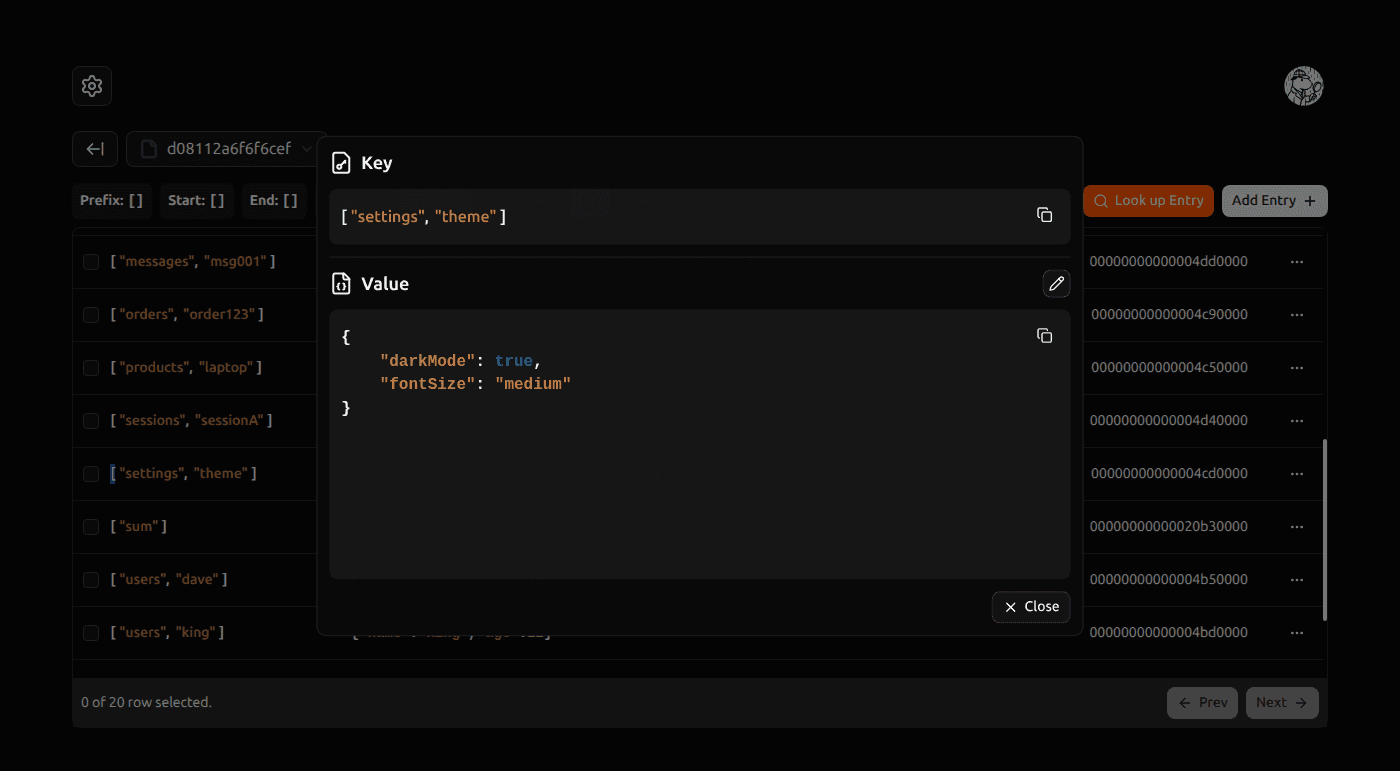
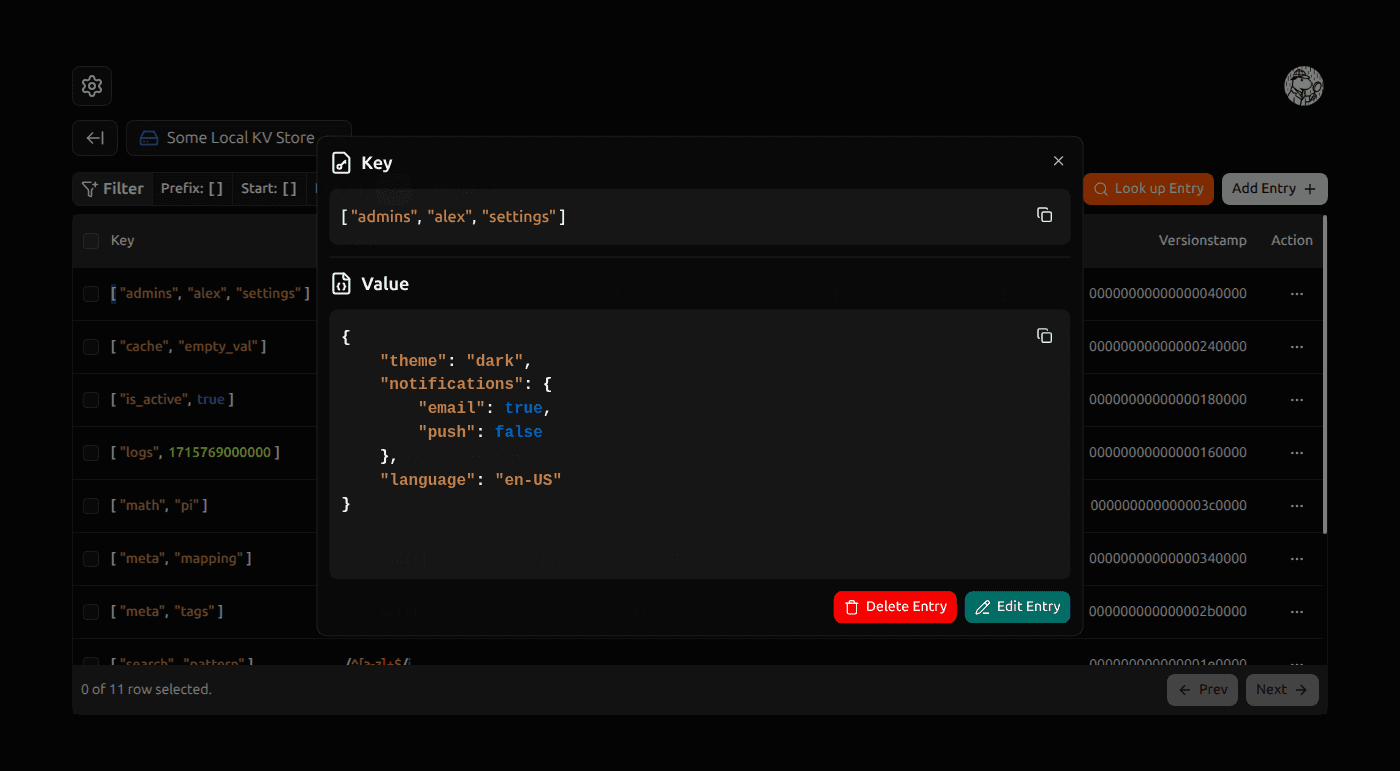
chore: refine automatic screenshots capturing script

diff --git a/scripts/takeScreenshots.ts b/scripts/takeScreenshots.ts
@@ -3,10 +3,11 @@ import type { Page } from 'playwright';
 import { globSync } from 'glob';
 import { platform } from 'node:process';
 import sharp from "sharp";
-import { readdirSync, rmSync } from 'node:fs';
+import { readdirSync, rmSync, writeFileSync } from 'node:fs';
+import { randomTestingKvEntries } from '../tests/testingKvEntries.ts';
+import path from 'node:path';
 
 process.env.PLAYWRIGHT_TEST = 'true';
-process.env.NODE_ENV = 'development';
 
 let executablePattern = 'dist/*/denokv-gui-client{,.*}';
 if (platform === 'darwin') {
@@ -40,12 +41,56 @@ try {
     // Wait for the page to load
     await page.waitForLoadState('load');
 
+    await page.evaluate(async (path) => {
+        const kvStoresService = globalThis[btoa('kvStoresService') as keyof typeof globalThis]
+        await kvStoresService.create({
+            name: "Some Local KV Store",
+            url: path,
+            type: "local",
+            accessToken: null,
+            authToken: null,
+        })
+
+        await kvStoresService.create({
+            name: "Some Production KV Store",
+            url: "https://some-remote-database.com/kv",
+            type: "remote",
+            accessToken: "some-access-token",
+            authToken: null,
+        })
+
+        await kvStoresService.create({
+            name: "Some KV Store Bridge Server",
+            url: "https://localhost:8704/kv/bridge-server",
+            type: "bridge",
+            accessToken: null,
+            authToken: "some-auth-token",
+        })
+    }, import.meta.dirname);
+
     await switchMode(page, 'dark')
     await takeScreenshots(page, 'dark')
     await switchMode(page, 'light')
     await takeScreenshots(page, 'light')
 } finally {
     await electronApp.close();
+
+    writeFileSync(path.resolve(import.meta.dirname, '../tests/database.test.sqlite'), "")
+
+    const testingKvStorePath = path.resolve(import.meta.dirname, 'kv.sqlite3')
+    rmSync(testingKvStorePath, { force: true })
+    rmSync(`${testingKvStorePath}-shm`, { force: true })
+    rmSync(`${testingKvStorePath}-wal`, { force: true })
+
+    for (const file of readdirSync("./screenshots")) {
+        if (file.endsWith(".temp.png")) {
+            await sharp("./screenshots/" + file)
+                .png({ quality: 70 })
+                .toFile("./screenshots/" + file.replace(".temp", ""));
+
+            rmSync("./screenshots/" + file)
+        }
+    }
 }
 
 type Mode = "dark" | "light";
@@ -56,6 +101,7 @@ async function takeScreenshots(page: Page, mode: Mode) {
         takeScreenshotOfKvStoreForm,
         takeScreenshotOfKvEntriesTable,
         takeScreenshotOfDisplayKvEntryDialog,
+        takeScreenshotOfEditKvEntryDialog,
         takeScreenshotOfAddKvEntryForm,
         takeScreenshotOfLookupEntryDialog,
         takeScreenshotOfBrowsingParamsDialog,
@@ -76,8 +122,7 @@ async function switchMode(page: Page, mode: Mode) {
 
     await page.screenshot({ path: `./screenshots/SettingsPage_${mode}.temp.png`, fullPage: true });
 
-    const backButton = page.locator("button svg.lucide-arrow-left");
-    await backButton.click()
+    await page.reload();
 }
 
 async function takeScreenshotOfKvStoresGrid(page: Page, mode: Mode) {
@@ -93,26 +138,45 @@ async function takeScreenshotOfKvStoreForm(page: Page, mode: Mode) {
 }
 
 async function takeScreenshotOfKvEntriesTable(page: Page, mode: Mode) {
-    const kvStoreCard = page.locator('#kv-stores-grid > div', { has: page.locator("svg.lucide-file") }).first();
-    await kvStoreCard.dblclick({ position: { x: 5, y: 5 } });
+    await page.locator(
+        '#kv-stores-grid > div',
+        { hasText: "Some Local KV Store" }
+    ).dblclick({ position: { x: 5, y: 5 } });
+
+    await page.evaluate(async (entries) => {
+        const kvClient = globalThis[btoa('kvClient') as keyof typeof globalThis]
+
+        if (!(await kvClient.get(entries[0].key))?.result) {
+            for (const entry of entries) {
+                await kvClient.set(entry.key, entry.value)
+            }
+        }
+    }, randomTestingKvEntries);
+
+    await page.locator("button", { hasText: "Reload" }).click();
+    await page.waitForTimeout(100)
     await page.screenshot({ path: `./screenshots/KvEntriesTable_${mode}.temp.png`, fullPage: true });
 }
 
 async function takeScreenshotOfDisplayKvEntryDialog(page: Page, mode: Mode) {
-    const c = page.locator('td', { hasText: "settings" });
-    await c.dblclick({ position: { x: 5, y: 5 } });
-    await page.waitForTimeout(100)
+    await page.locator('td', { hasText: /"admins"/ }).dblclick({ position: { x: 5, y: 5 } });
+    await page.waitForTimeout(100);
     await page.screenshot({ path: `./screenshots/DisplayKvEntryDialog_${mode}.temp.png`, fullPage: true });
-    const closeButton = page.locator('button', { has: page.locator("svg.lucide-x"), hasText: "close" });
-    await closeButton.click();
+}
+
+async function takeScreenshotOfEditKvEntryDialog(page: Page, mode: Mode) {
+    await page.locator('button', { hasText: "Edit Entry" }).click();
+    await page.locator('button', { has: page.locator("svg.lucide-chevron-down"), hasText: "Object" }).click();
+    await page.waitForTimeout(100);
+    await page.screenshot({ path: `./screenshots/EditKvEntryDialog_${mode}.temp.png`, fullPage: true });
+    await page.keyboard.press('Escape');
+    await page.keyboard.press('Escape');
 }
 
 async function takeScreenshotOfAddKvEntryForm(page: Page, mode: Mode) {
-    const addKvEntryButton = page.locator('button', { hasText: "Add Entry" });
-    await addKvEntryButton.click();
+    await page.locator('button', { hasText: "Add Entry" }).click();
     await page.waitForTimeout(100);
-    const dataTypesSelectBox = page.locator('button', { has: page.locator("svg.lucide-chevron-down"), hasText: "Undefined" });
-    await dataTypesSelectBox.click();
+    await page.locator('button', { has: page.locator("svg.lucide-chevron-down"), hasText: "Undefined" }).click();
     await page.waitForTimeout(100);
     await page.screenshot({ path: `./screenshots/AddKvEntryForm_${mode}.temp.png`, fullPage: true });
     await page.keyboard.press('Escape');
@@ -120,41 +184,45 @@ async function takeScreenshotOfAddKvEntryForm(page: Page, mode: Mode) {
 }
 
 async function takeScreenshotOfLookupEntryDialog(page: Page, mode: Mode) {
-    const lookupEntryButton = page.locator('button', { hasText: "Look up Entry" });
-    await lookupEntryButton.click();
+    await page.locator('button', { hasText: "Look up Entry" }).click();
     await page.waitForTimeout(100);
     await page.screenshot({ path: `./screenshots/LookupEntryDialog_${mode}.temp.png`, fullPage: true });
     await page.keyboard.press('Escape');
 }
 
 async function takeScreenshotOfBrowsingParamsDialog(page: Page, mode: Mode) {
-    const openFiltersButton = page.locator('button', { hasText: "Filter" });
-    await openFiltersButton.click();
+    await page.locator('button', { has: page.locator("svg.lucide-pencil-line") }).click();
     await page.waitForTimeout(100);
     await page.screenshot({ path: `./screenshots/BrowsingParamsDialog_${mode}.temp.png`, fullPage: true });
-    await page.keyboard.press('Escape');
 }
 
 async function takeScreenshotOfSavedBrowsingParamsDialog(page: Page, mode: Mode) {
-    const openSavedBrowsingParamsButton = page.locator(
-        'button',
-        {
-            has: page.locator("svg.lucide-book-marked"),
-            hasNot: page.locator("button"),
+    await page.evaluate(async () => {
+        const kvStoresService = globalThis[btoa('kvStoresService') as keyof typeof globalThis]
+        const store = (await kvStoresService.getAll()).find((store: any) => store.type === "local")
+
+        const browsingParamsService = globalThis[btoa('browsingParamsService') as keyof typeof globalThis]
+
+        const res = await browsingParamsService.getSavedBrowsingParamsRecords(store.id)
+        if (res.result.length) {
+            return
         }
-    );
-    await openSavedBrowsingParamsButton.click();
+
+        await browsingParamsService.saveBrowsingParams(store.id, {
+            browsingParams: {
+                prefix: '["orders", "failed"]',
+                start: "[]",
+                end: "[]",
+                limit: 50,
+                batchSize: 50,
+                consistency: "string",
+                reverse: false
+            },
+            setAsDefault: false
+        })
+    });
+
+    await page.locator('button', { hasText: "Saved Filters List" }).click();
     await page.waitForTimeout(100);
-    await page.screenshot({ path: `./screenshots/SavedBrowsingParamsDialog_${mode}.temp.png`, fullPage: true })
-    await page.keyboard.press('Escape');
-}
-
-for (const file of readdirSync("./screenshots")) {
-    if (file.endsWith(".temp.png")) {
-        await sharp("./screenshots/" + file)
-            .png({ quality: 70 })
-            .toFile("./screenshots/" + file.replace(".temp", ""));
-
-        rmSync("./screenshots/" + file)
-    }
+    await page.screenshot({ path: `./screenshots/SavedBrowsingParamsDialog_${mode}.temp.png`, fullPage: true });
 }
